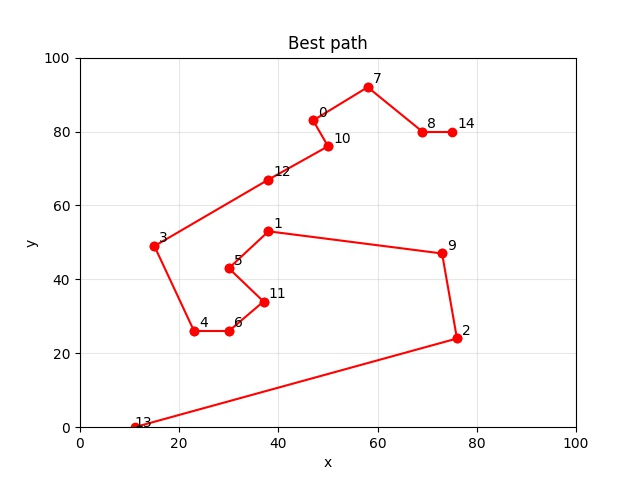
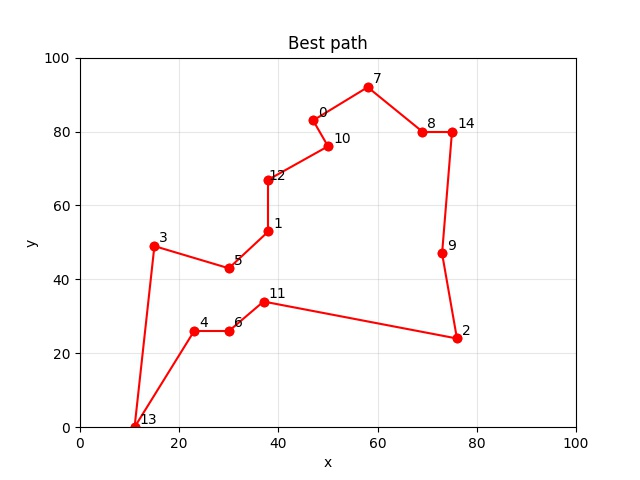
Correct fitness
Fitness did not account for the full tour (last to first city). Change plot.

diff --git a/genetic_algorithm.py b/genetic_algorithm.py
@@ -67,6 +67,8 @@ class GeneticAlgorithm():
                 for i in range(1, self.N - 1):
                     fitness_individual += ((self.loc_cities[individual[i]][0] - self.loc_cities[individual[i - 1]][0])**2
                                            + (self.loc_cities[individual[i]][1] - self.loc_cities[individual[i - 1]][1])**2)**0.5
+                fitness_individual += ((self.loc_cities[individual[-1]][0] - self.loc_cities[individual[0]][0])**2
+                                       + (self.loc_cities[individual[-1]][1] - self.loc_cities[individual[0]][1])**2)**0.5
             else:
                 fitness_individual = np.inf
             fitness_population[idx] = fitness_individual

diff --git a/run.py b/run.py
@@ -57,5 +57,10 @@ for i in range(1, len(best_path)):
     plt.text(x0 + 1, y0 + 1, best_path[i - 1])
     plt.plot([x0, x1], [y0, y1], 'ro-')
 plt.text(x1, y1, best_path[-1])
+
+# Complete the tour
+x0, y0 = loc_cities[best_path[-1]]
+x1, y1 = loc_cities[best_path[0]]
+plt.plot([x0, x1], [y0, y1], 'ro-')
 plt.savefig('figures/best_path.jpg')
 plt.show()

diff --git a/README.md b/README.md
@@ -14,3 +14,4 @@ Genetic algorithm to solve the Travelling Salesman Problem (TSP).
     <img width="500" height="400" src="figures/best_path.jpg">
 </p>
 
+
